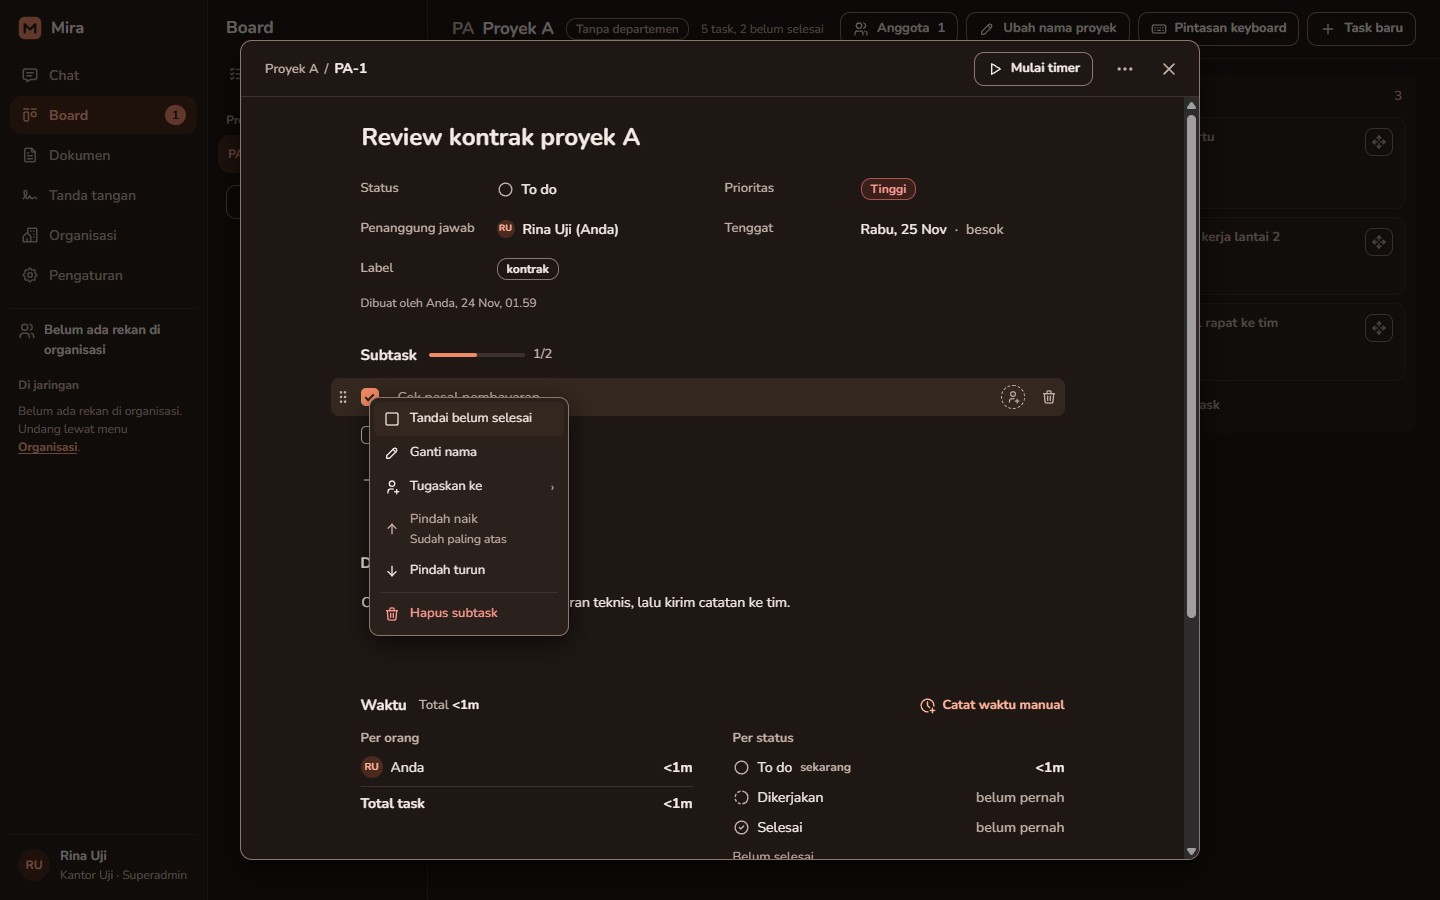
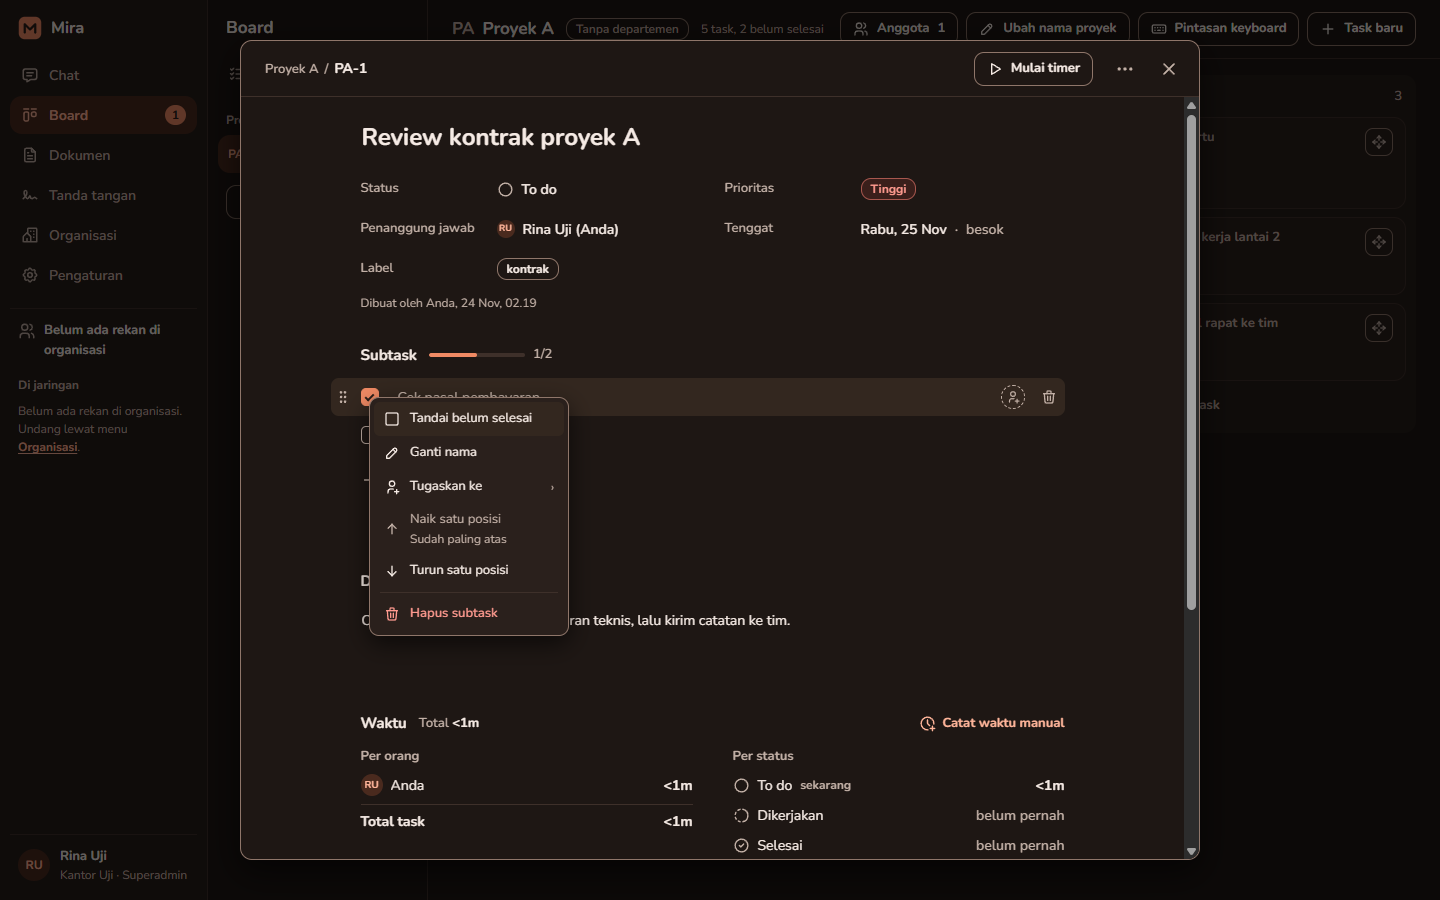
Laporan menu klik kanan Board dan screenshot terbaru

diff --git a/docs/progress/v04-ctx-board.md b/docs/progress/v04-ctx-board.md
@@ -1,0 +1,134 @@
+# Laporan: menu klik kanan Board (v0.4)
+
+Tanggal: 24 November 2026. Branch `claude/v04-ctx-board-7f03aa`, dari `integrasi-v04` (14b7240). Rencana: `docs/plans/v04-ctx-board.md`. Komponen dasar: `src/components/ContextMenu` (`docs/progress/v04-contextmenu.md`).
+
+Permintaan user: "buat click kanan pada app nya ada fungsinya ... u atur aja yang terbaiknya gimana untuk modul2 lain".
+
+## Hasil
+
+Menu klik kanan sekarang ada di lima tempat Board. Isinya hanya aksi yang perintahnya sudah ada, dan mengikuti hak peran anggota proyek. Shift+F10 dan tombol Menu membuka menu yang sama.
+
+| Tempat | Isi menu |
+|---|---|
+| Kartu task | Buka task. Pindahkan ke › (To do, Dikerjakan, Selesai, Naik/Turun satu posisi). Tugaskan ke › (saya paling atas, anggota, Tanpa penanggung jawab). Ubah prioritas ›. Atur tenggat › (Hari ini, Besok, Hapus tenggat, Tanggal lain di detail task). Mulai/Hentikan timer saya. Salin kode TES-1. Hapus task (merah, dengan konfirmasi). |
+| Kolom | Task baru di kolom ini. |
+| Subtask (dialog task) | Tandai selesai / belum selesai, Ganti nama, Tugaskan ke ›, Naik/Turun satu posisi, Hapus subtask. |
+| Proyek (daftar kiri) | Buka board, Anggota proyek, Ubah nama proyek. |
+| Task saya | Buka task, Pindahkan ke ›, Salin kode. |
+
+Hak peran:
+- Tamu dan orang tanpa hak tulis: kartu hanya Buka task dan Salin kode; kolom tanpa menu; subtask tanpa menu; Task saya tanpa Pindahkan ke.
+- Hapus task hanya untuk pembuat task dan pengelola proyek. Ubah nama proyek hanya untuk pengelola.
+- Aksi yang sementara tidak bisa tampil nonaktif dengan alasan, misalnya "Task sudah di kolom ini", "Belum ada tenggat", "Sudah paling atas", "Board ini sedang terbuka", dan "Tunggu perubahan sebelumnya tersimpan".
+
+Screenshot: `docs/progress/screenshots/v04-ctx-board/`
+- `01-kartu-menu-terang`
+- `02-kartu-submenu-pindah-terang`
+- `03-konfirmasi-hapus-terang`
+- `04-kartu-menu-gelap`
+- `05-subtask-menu-gelap`
+- `06-proyek-menu-terang`
+- `07-task-saya-submenu-terang`
+
+## Keputusan
+
+| Keputusan | Alasan |
+|---|---|
+| Sub-menu dibuat di `src/screens/board/useBoardMenu.tsx`, komponen bersama tidak diubah | Komponen bersama hanya punya daftar datar dan bukan milik sesi ini (Chat sedang memakainya bersamaan). Hook membungkus `useContextMenu`. Item `submenu(...)` bertanda ›. Memilihnya mengganti isi menu di posisi yang sama (memakai `MenuPopup` bersama), dengan Kembali di atas. Panah kanan membuka, panah kiri kembali, Esc menutup semua. Fokus awal di pilihan pertama sesudah Kembali (pola APG). Setelah kembali, fokus di item asal. Sub-menu yang lebih besar dijepit ke tepi, tidak dibalik. |
+| Kartu membawa `canDelete`, `canEdit`, `myTimerRunning` dari inti Rust | Kartu sebelumnya tidak tahu hak hapus atau timer saya. `canDelete` dan `canEdit` dipindah dari `TaskDetail` ke `TaskCard`, sehingga JSON detail tetap sama karena `serde(flatten)`. Di `board()` dan `my_tasks()` dihitung murah sekali per proyek: `canWrite && (pembuat == saya \|\| pengelola)`, setara `can_delete_task`. Tes Rust memastikan kartu sama dengan `policy.allows(DeleteTask/EditTask)` untuk 16 kasus penonton. Inti tetap menolak lewat policy. |
+| Klik kanan di judul subtask tetap memberi menu teks | Aturan komponen bersama: kolom teks punya menu Potong/Salin/Tempel. Menu subtask terbuka dari kotak centang, pegangan, avatar, ikon hapus, atau ruang kosong baris. Petunjuk subtask menyebut Shift+F10 di kotak centang. |
+| Hapus subtask tanpa konfirmasi | Sama dengan tombol tempat sampah yang sudah ada di baris. |
+| Hapus task dengan konfirmasi | Teksnya sama dengan dialog di detail task. Waktu tercatat ikut disebut (tanpa angka, karena jumlah catatan tidak ada di kartu), dan kalimat "Mira belum punya cara mengembalikannya." tetap paling akhir. |
+| "Mulai timer saya" mengumumkan timer lain yang dihentikan | Inti menghentikan timer saya yang lain di proyek yang sama. Menu mengumumkan "Timer Anda di TES-1 berjalan. Timer di TES-2 dihentikan." |
+| "Hentikan timer saya" tanpa catatan | Jalan pintas. Catatan tetap bisa ditulis lewat tombol Hentikan di detail task. |
+| Tenggat: hanya Hari ini, Besok, Hapus tenggat, lalu Tanggal lain membuka detail task | Pemilih tanggal ada di detail task. Membuat pemilih kedua di menu menambah alur baru. |
+| Tanpa "Buka chat proyek" | Pindah ke Chat lewat `Shell` dan `ChatScreen`, keduanya di luar milik sesi ini. |
+| Kolom hanya "Task baru di kolom ini" | Pengelolaan kolom belum ada, jadi tidak ditambahkan. |
+| Kartu tanpa tombol "..." baru | Kartu sudah punya tombol Pindahkan, dan semua aksi lain ada di detail task. Satu-satunya aksi yang hanya ada di menu adalah Salin kode, dan bisa dijangkau dengan Shift+F10. |
+| Klik kanan membatalkan seret yang tertunda | Tombol kiri ditahan belum lewat ambang 5 px, lalu klik kanan: seret dibatalkan, jadi tidak ada seret yang mulai di belakang menu. Selama seret berjalan, menu tidak dibuka. Ctrl+klik (klik kanan di macOS) tidak memulai seret, tapi hanya di macOS. Di Windows Ctrl+seret tetap jalan. |
+| Permintaan Anggota/Ubah nama dari daftar proyek berlaku sekali | BoardScreen menghapus permintaan begitu board proyeknya tidak tampil lagi, sehingga board yang dipasang ulang tidak membuka panel sendiri. |
+
+## Verifikasi
+
+| Uji | Hasil |
+|---|---|
+| `npx tsc --noEmit -p .` | bersih |
+| `npx vitest run src/screens/board` | 19 file, 476 tes lulus |
+| Tes baru | `BoardContextMenu.test.tsx` 42, `SubtaskMenu.test.tsx` 31, `useBoardMenu.test.tsx` 40, `ProjectMenu.test.tsx` 10, `MyTasksMenu.test.tsx` 8 |
+| `npx vitest run` (seluruh repo) | 1386 lulus, 2 gagal, 2 file gagal dimuat; semuanya di luar Board, lihat di bawah |
+| `cargo test` | 1098 lulus, 7 diabaikan (sudah begitu sebelumnya) |
+| `cargo clippy --all-targets -- -D warnings` | bersih |
+| `scripts/board-e2e.mjs` (klik kanan sungguhan, `button: "right"`) | 43/43 lulus (23 langkah lama termasuk seret mouse, 20 baru) |
+| `scripts/board-sync-e2e.mjs` | 26/26 lulus |
+
+Tes keyboard mencakup:
+- Shift+F10, tombol Menu, panah atas/bawah, Home/End.
+- Panah kanan/kiri dan Kembali di sub-menu.
+- Enter/Spasi, Esc, dan Tab.
+- Fokus kembali ke judul kartu atau elemen asal, termasuk setelah hapus.
+- Esc di dalam dialog modal hanya menutup menu.
+- Item nonaktif beserta alasannya.
+
+Kegagalan Vitest di luar Board sudah ada di base. Diuji di worktree sementara dari 14b7240 dengan hasil yang sama:
+- `App.test.tsx` dan `UpdateContext.test.tsx` gagal dimuat. Penyebabnya Vite menolak `pdfjs-dist/build/pdf.worker.min.mjs?url` lewat junction `node_modules` di worktree.
+- `DepartmentsPanel.test.tsx` gagal satu tes.
+- `NewRequestDialog.test.tsx` sesekali gagal saat mesin sibuk, dan lulus 11/11 kalau dijalankan sendiri.
+
+Yang diperiksa `board-e2e` di aplikasi sungguhan (WebView2, build debug):
+- **Kolom:** klik kanan judul To do membuka menu tepat di kursor. "Task baru di To do" membuka isian yang langsung terfokus.
+- **Pindahkan:**
+  - Menu kartu muncul di kursor, dan detail task tidak ikut terbuka.
+  - Sub-menu "Pindahkan PA-6 ke" muncul di tempat yang sama, dengan kolom sekarang nonaktif.
+  - Memilih Dikerjakan memindah kartu, baik di layar maupun di inti.
+- **Tugaskan:** "Rina Uji (Anda)" ada paling atas dan terfokus. Setelah dipilih, avatar tampil dan data inti berubah.
+- **Salin kode:** papan klip sungguhan berisi persis "PA-6", lalu fokus kembali ke judul kartu.
+- **Hapus:**
+  - Batal tidak mengubah apa pun.
+  - Konfirmasi "Hapus PA-7" menghapus kartu, dan `board_get_task` gagal.
+- **Keyboard:**
+  - Shift+F10 membuka menu dengan item terfokus.
+  - Panah kanan membuka sub-menu, dan panah kiri kembali ke "Pindahkan ke".
+  - Esc mengembalikan fokus ke judul kartu.
+- **Seret:**
+  - Menekan tombol kanan lalu menggerakkan mouse tidak memunculkan bayangan seret, dan kartu tidak pindah.
+  - Seret tombol kiri antar kolom tetap berhasil, begitu juga semua langkah seret lama.
+- **Proyek:** "Anggota proyek" membuka panel.
+- **Task saya:** Pindahkan ke > Selesai memindah task di inti.
+- **Subtask:**
+  - Menu dirender di dalam dialog, dan Esc hanya menutup menu.
+  - "Tandai belum selesai" mengubah data inti.
+- Mode terang dan gelap.
+
+Build uji: `npx tauri build --debug --no-bundle`, lalu `E2E_PORT_OFFSET=640` untuk kedua skrip, supaya tidak bentrok dengan sesi lain.
+
+## Review terpisah
+
+Dua reviewer terpisah, satu untuk aksesibilitas dan tampilan, satu untuk kebenaran dan keamanan. Tidak ada temuan keamanan atau bug logika di Rust. Kesetaraan `canDelete` dengan policy sudah diperiksa untuk semua peran.
+
+Semua bug diperbaiki, masing-masing dengan tes regresi:
+1. Dua menu sekaligus: Shift+F10 atau klik kanan di dropdown Pindahkan, atau di popover penanggung jawab subtask, membuka menu baris di atasnya. Sekarang diabaikan, dan dropdown Pindahkan menutup saat fokus keluar.
+2. Seret yang tertunda di kartu dan subtask tetap mulai setelah menu terbuka. Sekarang dibatalkan. Menu juga tidak terbuka selama seret subtask berjalan.
+3. Ctrl+klik di pegangan subtask (macOS) membuka menu sekaligus memulai seret.
+4. Task saya menampilkan Pindahkan ke untuk orang tanpa hak tulis. Sekarang memakai `canEdit` dari kartu.
+5. Permintaan Anggota/Ubah nama bisa terputar ulang saat proyek hilang lalu muncul lagi.
+6. "Mulai timer saya" diam-diam menghentikan timer lain. Sekarang diumumkan.
+7. Hapus dari menu saat pindahan kartu yang sama masih berjalan memunculkan galat "belum dipindah" palsu.
+
+Saran yang diambil:
+- Pemisah di menu kartu.
+- Penanggung jawab lama yang bukan anggota lagi tampil nonaktif.
+- "Hapus tenggat" nonaktif dengan alasan.
+- Urutan kalimat konfirmasi hapus.
+- Teks salin gagal tanpa "Ctrl+C".
+- Label subtask "Naik/Turun satu posisi" seperti kartu.
+- Esc setelah "Ganti nama" hanya keluar dari judul.
+- "Buka board" nonaktif untuk board yang sedang terbuka.
+- Sub-menu mendukung `confirm` dan tidak membuang galat.
+
+## Batasan dan tindak lanjut
+
+- Saat sub-menu dibuka, fokus berpindah dua kali: ke elemen asal dulu, baru ke sub-menu. Pembaca layar bisa sempat membacakan judul kartu. Menghindarinya butuh perubahan di komponen bersama (`useContextMenu` selalu mengembalikan fokus sebelum aksi). Belum diuji dengan NVDA.
+- Kalau rekan memindah kartu ke kolom lain selagi menu kartu atau konfirmasi hapusnya terbuka, kartu dipasang ulang dan menu atau dialog hilang. Tidak ada data yang berubah. Kasusnya jarang.
+- Kalau baris tanpa elemen yang bisa difokus berada di dalam dialog, komponen bersama merender menu utama di luar dialog. Board tidak punya baris seperti itu.
+- Tempel/Salin di macOS belum diuji di Mac, sama seperti tahap dasar.
+- Teks baru ada di `src/screens/board/teksMenu.ts` untuk sesi bahasa Inggris.
